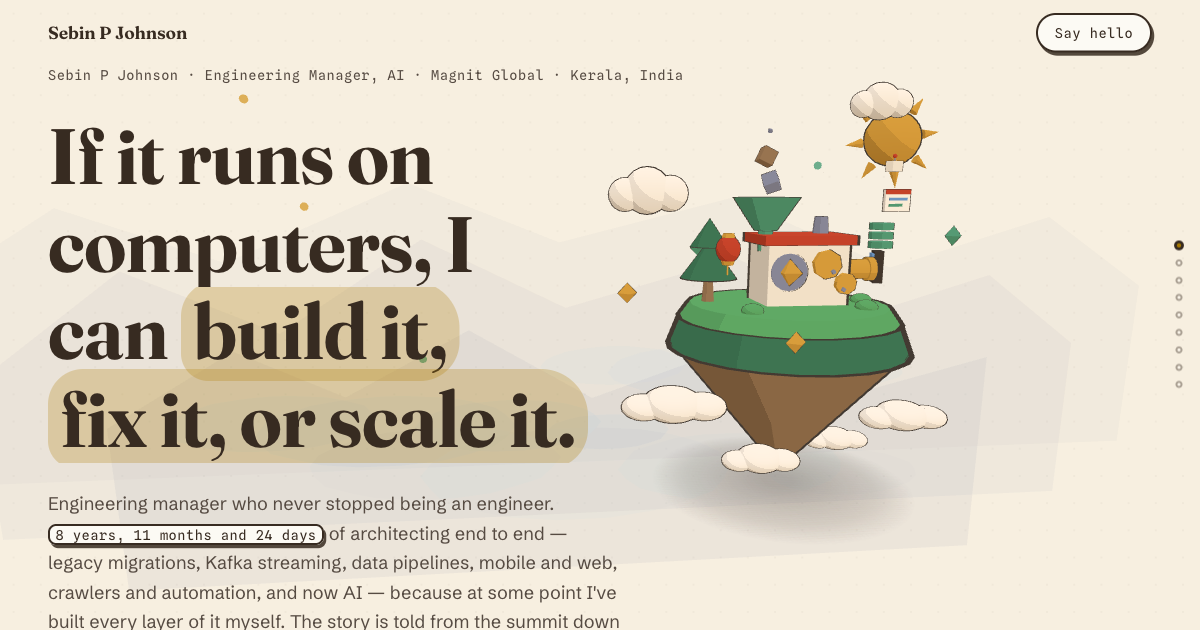
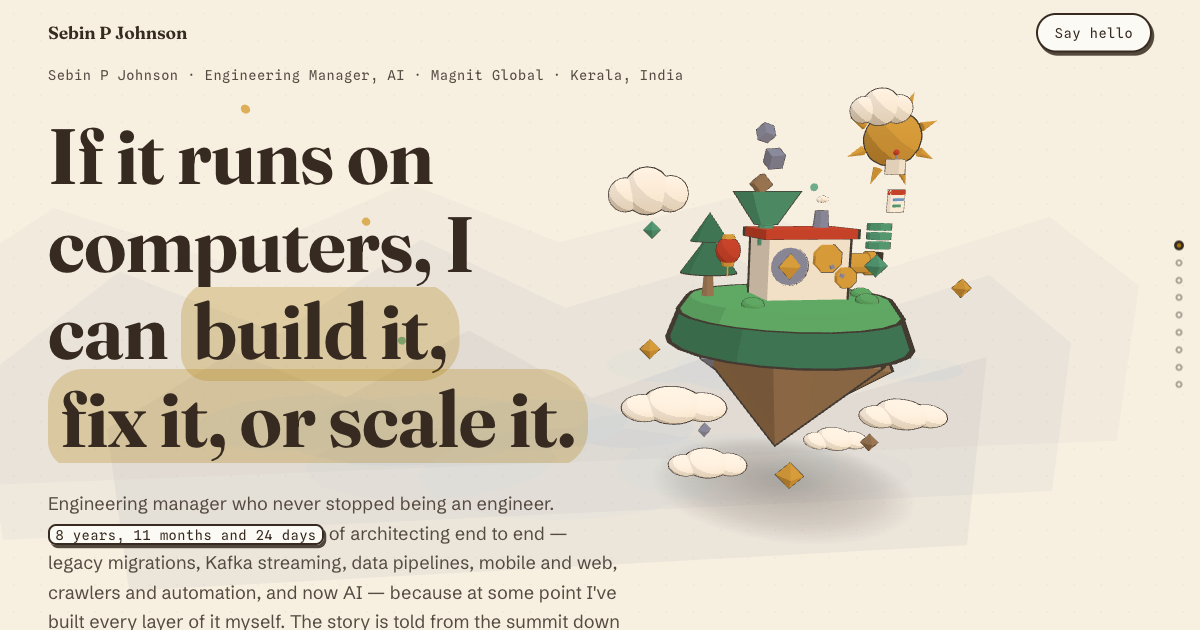
Replace smooth island cone with jagged shards, crystal keel, and debris
The hero island's underside was a single smooth inverted cone that read
as a spinning top. Now it is three faceted inverted cones (a large earth
mass plus two tilted earth/slate shards, 6/5 radial segments for rocky
facets) inside the bobbing peak group, a gold octahedron keel floating
in the air gap below the lowest tip (slow spin, faint pulse, rides the
island bob so the gap stays constant), and three small octa debris bits
hovering around the underside on phase-offset bobs. One sea cloud moved
aside so the keel floats in clear air. og.png regenerated.

diff --git a/src/gl/dioramas/sets.js b/src/gl/dioramas/sets.js
@@ -51,9 +51,18 @@ export function buildHero() {
   // The machine and tree share its bob (same amp/speed/phase) so the
   // whole summit floats as one piece.
   const peak = new Group();
-  const rock = cone(1.6, 1.9, P.earth);
-  rock.rotation.x = Math.PI;
-  rock.position.y = -1.42;
+  // Jagged underside: faceted inverted cones (low radial counts read as
+  // rock facets) — a main mass with two tilted shards shouldering out.
+  const rock = cone(1.45, 1.6, P.earth, true, 6);
+  rock.rotation.set(Math.PI, 0.5, 0.08);
+  rock.position.y = -1.3;
+  const shardA = cone(0.75, 1.1, P.earth, true, 5);
+  shardA.rotation.set(Math.PI, 1.2, 0.35);
+  shardA.position.set(0.6, -1.0, 0.25);
+  const shardB = cone(0.55, 0.85, P.slate, true, 5);
+  shardB.rotation.set(Math.PI, -0.7, -0.4);
+  shardB.position.set(-0.65, -0.9, -0.2);
+  peak.add(shardA, shardB);
   const collar = cyl(1.5, 1.66, 0.42, P.pine);
   collar.position.y = -0.26;
   const lawn = cyl(1.38, 1.52, 0.2, P.leaf);
@@ -66,6 +75,49 @@ export function buildHero() {
     peak.add(tuft);
   }
   d.prop(peak, { delay: 0, span: 0.45, drop: 0.8, idle: bob(0.06, 0.7) });
+
+  // The crystal keel — the thing that keeps the island up. It rides the
+  // island bob so the air gap under the lowest tip never breathes, and
+  // pulses quieter than the machine core so the two don't compete.
+  const keel = octa(0.18, P.gold);
+  keel.position.set(0, -2.38, 0.45);
+  d.prop(keel, {
+    delay: 0.12,
+    span: 0.35,
+    drop: 0.4,
+    idle: (o, t, b) => {
+      o.position.y = b.py + isleBob(t);
+      o.rotation.y = t * 0.45;
+      const s = 1 + Math.sin(t * 1.3) * 0.1;
+      o.scale.set(b.sx * s, b.sy * s, b.sz * s);
+    },
+  });
+
+  // Loose rock bits where gravity gave up — each on its own bob phase.
+  const DEBRIS = [
+    [1.25, -1.9, 0.3, 0.13, 0],
+    [-1.1, -1.85, -0.2, 0.11, 2.1],
+    [-0.85, -2.15, 0.8, 0.09, 4.3],
+  ];
+  const debris = new Group();
+  DEBRIS.forEach(([x, y, z, r], i) => {
+    const bit = octa(r, i === 1 ? P.slate : P.earth);
+    bit.position.set(x, y, z);
+    debris.add(bit);
+  });
+  d.prop(debris, {
+    delay: 0.16,
+    span: 0.35,
+    drop: 0.5,
+    idle: (o, t) => {
+      DEBRIS.forEach(([, y, , , phase], i) => {
+        const bit = o.children[i];
+        bit.position.y = y + Math.sin(t * 0.5 + phase) * 0.12;
+        bit.rotation.y = t * 0.3 + phase;
+      });
+      o.position.y = isleBob(t);
+    },
+  });
 
   // The workshop machine: rice shell, vermillion roof lip, a porthole
   // showing the core, a chimney, and a gold delivery spout on the right.
@@ -249,7 +301,7 @@ export function buildHero() {
   const seaSpots = [
     [-1.75, -1.15, 0.5, 1.0, 0.4],
     [1.65, -1.45, 0.4, 0.85, 1.9],
-    [-0.55, -1.95, 0.7, 0.7, 3.3],
+    [-1.3, -2.0, 0.7, 0.7, 3.3],
     [1.0, -2.1, -0.3, 0.6, 5.1],
   ];
   seaSpots.forEach(([x, y, z, s, phase], i) => {

diff --git a/docs/superpowers/specs/2026-06-12-island-underside-design.md b/docs/superpowers/specs/2026-06-12-island-underside-design.md
@@ -1,0 +1,25 @@
+# Hero island underside — jagged rock + crystal keel (2026-06-12)
+
+## Problem
+
+The floating island's underside was a single smooth inverted cone — it read
+as a spinning top, not a mountain chunk torn from the earth.
+
+## Design (user-approved)
+
+Replace the cone inside the hero `peak` group with:
+
+- **Three faceted inverted cones** (6/5 radial segments so the facets read
+  as rock): a large earth main mass plus two smaller tilted shards (earth
+  and slate) shouldering out the sides. Rims tuck under the green collar;
+  lawn, collar, machine, shadow untouched.
+- **Crystal keel**: a small gold octahedron floating in the air gap below
+  the lowest tip — slow spin, faint pulse (quieter than the machine core),
+  riding the island bob phase so the gap stays constant.
+- **Debris**: three tiny earth/slate octahedron bits hovering around the
+  underside, each bobbing on its own phase with a lazy spin.
+
+## Invariants
+
+Deterministic-in-t idles only; net +7 low-poly meshes; LAYOUT / camera /
+m-overrides unchanged; og.png regenerated.
